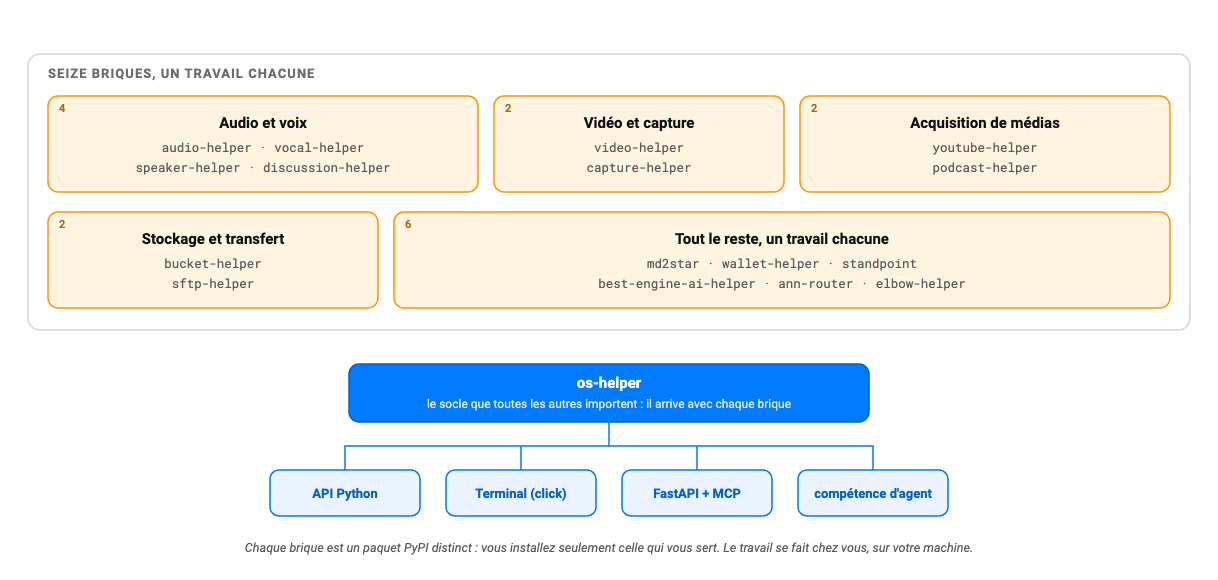
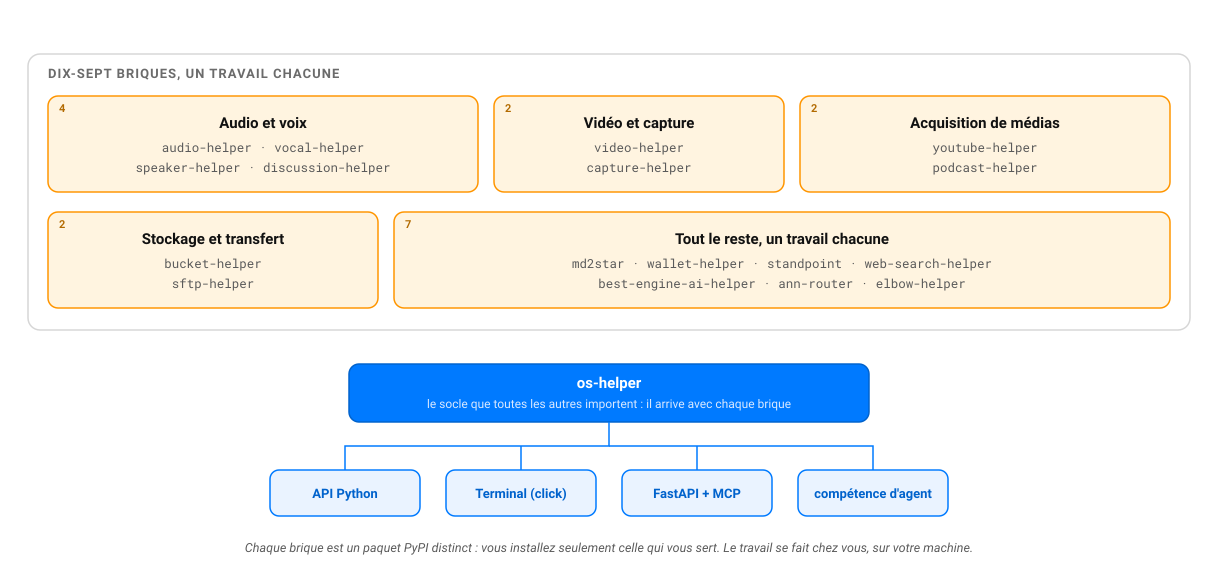
Plaque de la suite : dix-sept briques sur le socle (web-search-helper rejoint « tout le reste ») ; textes alternatifs

diff --git a/LISEZMOI.md b/LISEZMOI.md
@@ -95,7 +95,7 @@ md2pdf  talk.md   # talk.pdf
 
 ## Une même forme pour toutes
 
-![Comment ça marche : seize briques AI Helpers à un travail chacune, sur un socle commun](https://raw.githubusercontent.com/warith-harchaoui/ai-helpers/main/assets/diagrams/how-it-works.fr.png)
+![Comment ça marche : dix-sept briques AI Helpers à un travail chacune, sur un socle commun](https://raw.githubusercontent.com/warith-harchaoui/ai-helpers/main/assets/diagrams/how-it-works.fr.png)
 
 Qui sait conduire une brique sait conduire les dix-sept autres. Chacune se commande de cinq façons :
 

diff --git a/README.md b/README.md
@@ -95,7 +95,7 @@ md2pdf  talk.md   # talk.pdf
 
 ## The same shape everywhere
 
-![How the AI Helpers suite fits together: sixteen helpers with one job each, on one shared foundation](https://raw.githubusercontent.com/warith-harchaoui/ai-helpers/main/assets/diagrams/how-it-works.png)
+![How the AI Helpers suite fits together: seventeen helpers with one job each, on one shared foundation](https://raw.githubusercontent.com/warith-harchaoui/ai-helpers/main/assets/diagrams/how-it-works.png)
 
 Learn one helper and you know how to drive the other seventeen. Each one exposes:
 
